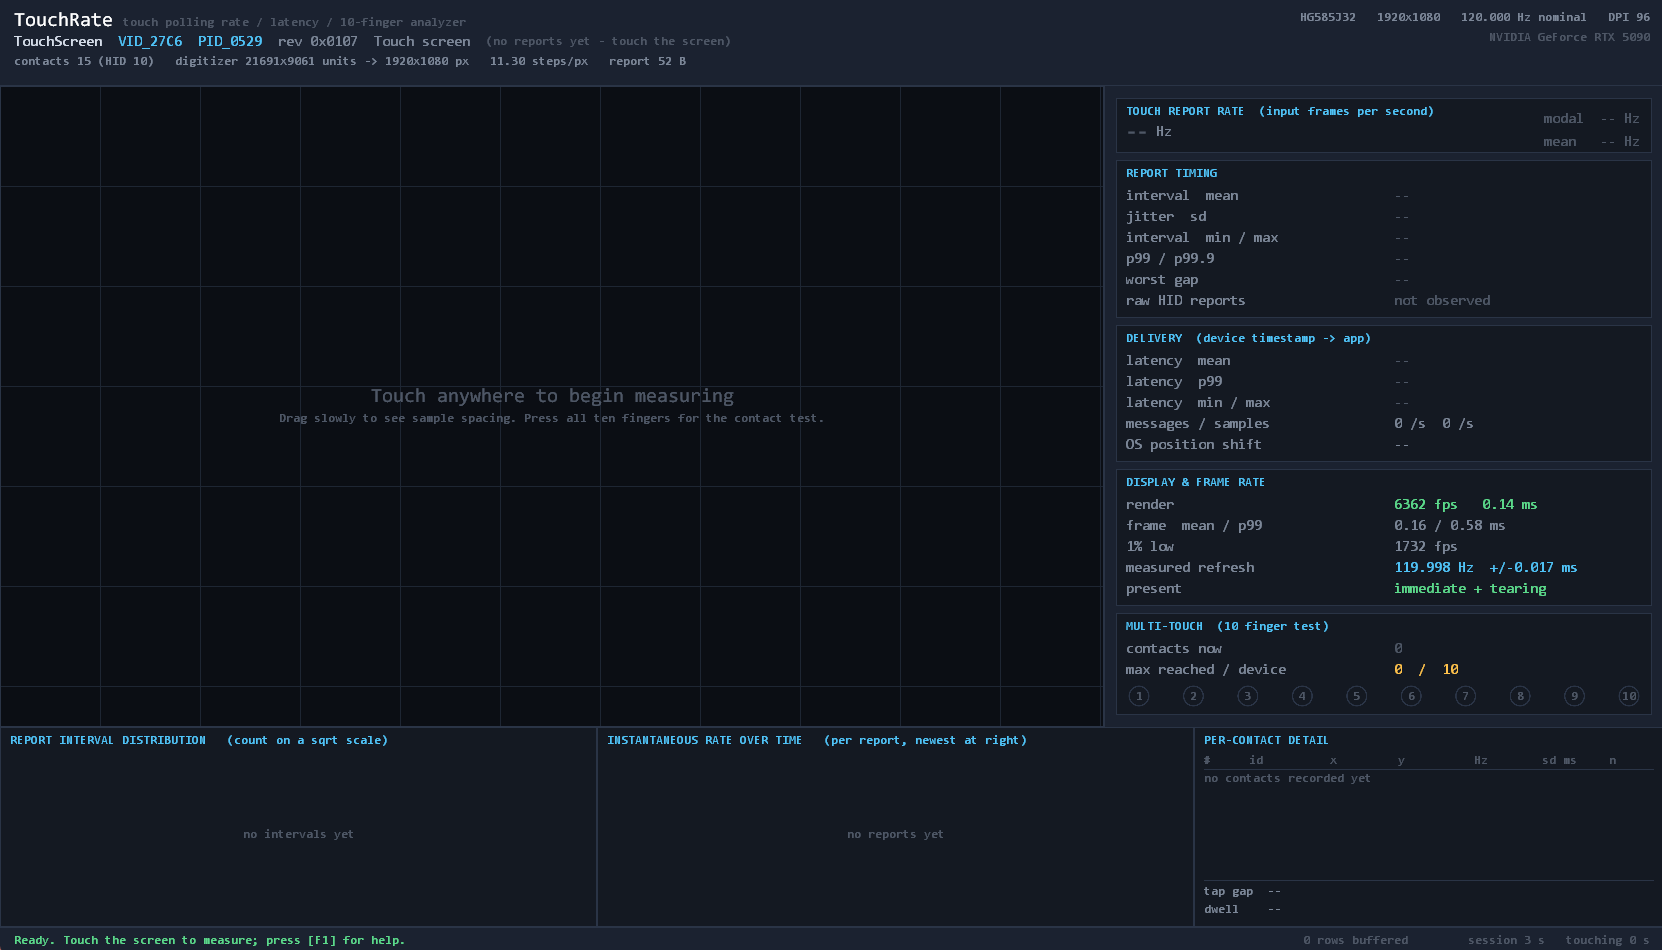
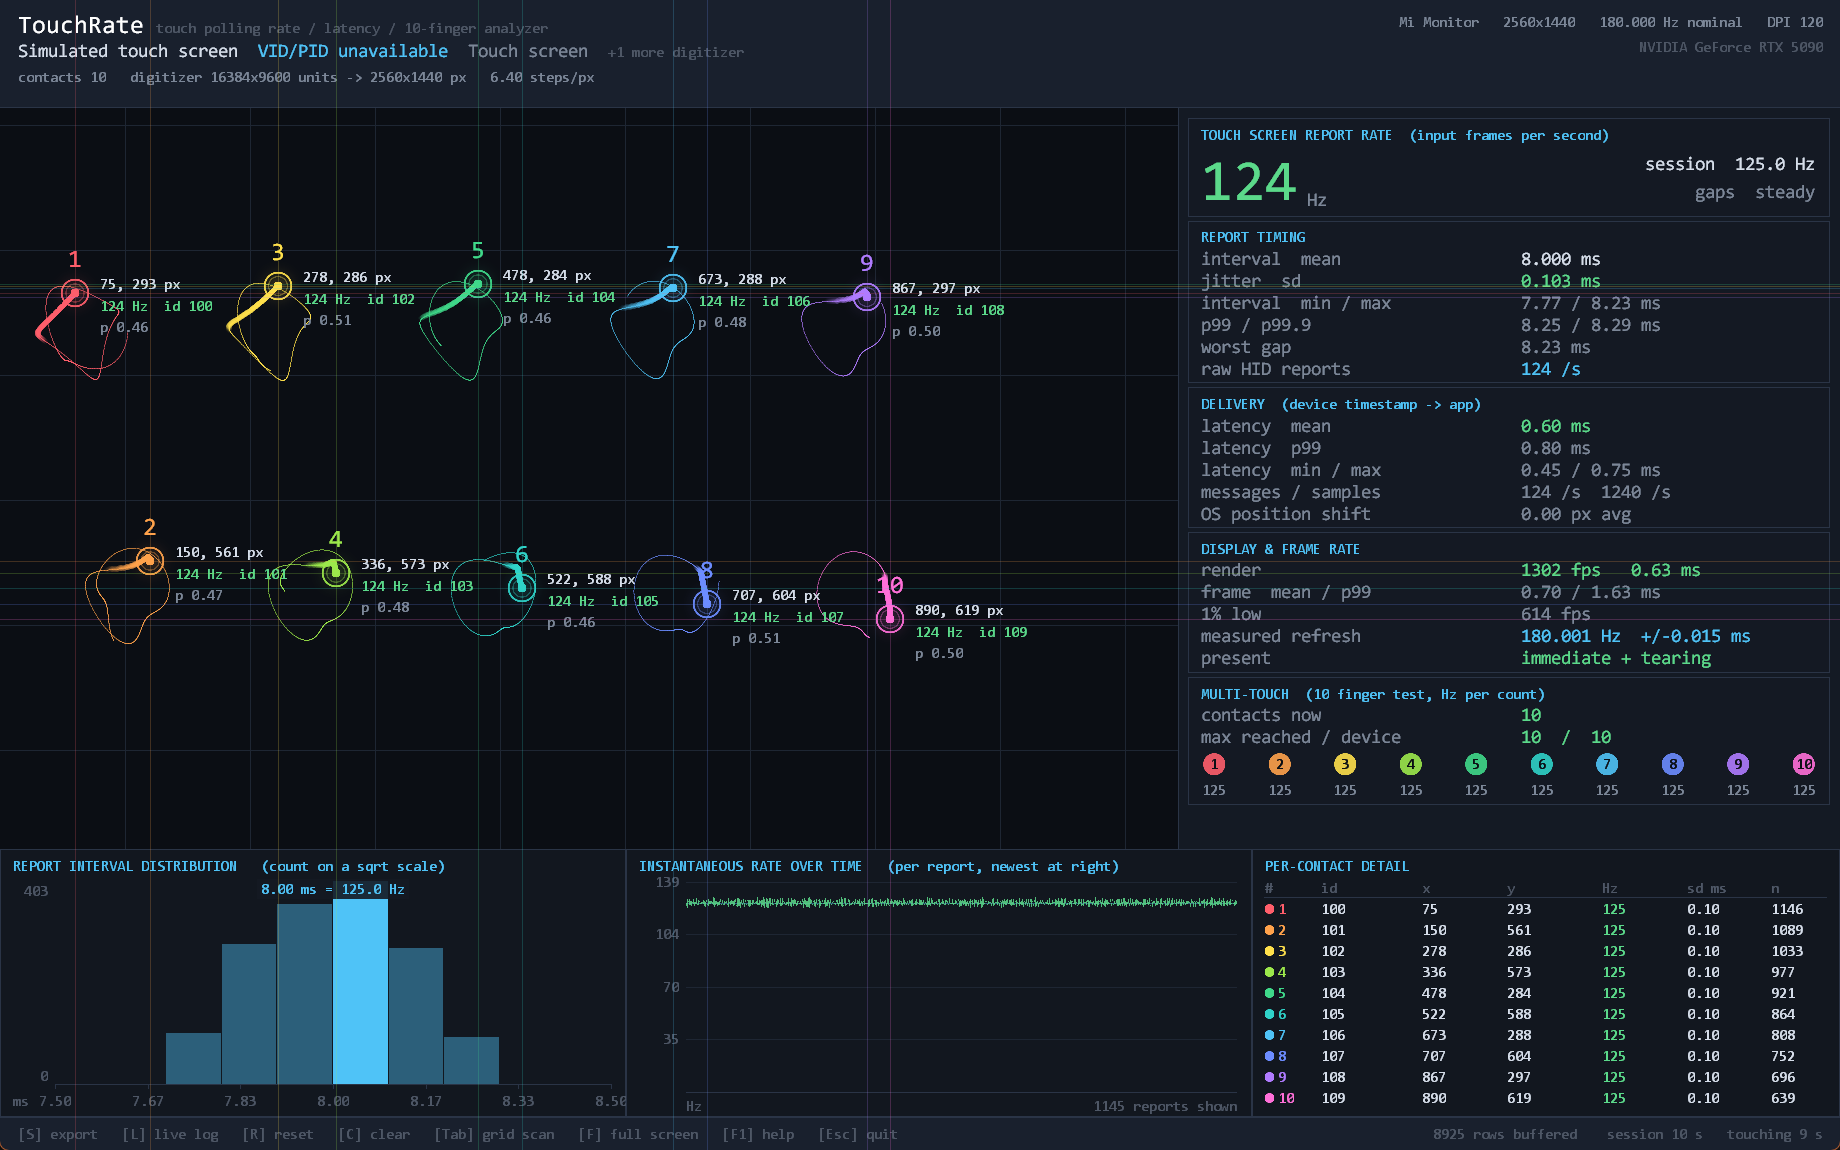
Retake the README screenshot with ten fingers down
The old one showed the app idle, from an earlier layout. The new one is taken
from a scratch build fed by a simulated touch screen: ten fingers going down
one at a time, then moving, at a steady 125 Hz with matching HID reports, so
every panel shows what it looks like mid-measurement. The header names the
device as simulated, and the README says so under the image.

1840 x 1150, captured at the app's own pixels rather than resampled, so text
stays sharp when GitHub scales it to the page and the file stays at 187 KB.

diff --git a/README.md b/README.md
@@ -26,6 +26,8 @@ permits.
 
 ![TouchRate](docs/screenshot.png)
 
+*Ten fingers on a simulated 125 Hz touch screen.*
+
 ## Build
 
 Requires Visual Studio (2019 or newer) with **Desktop development with C++**,
